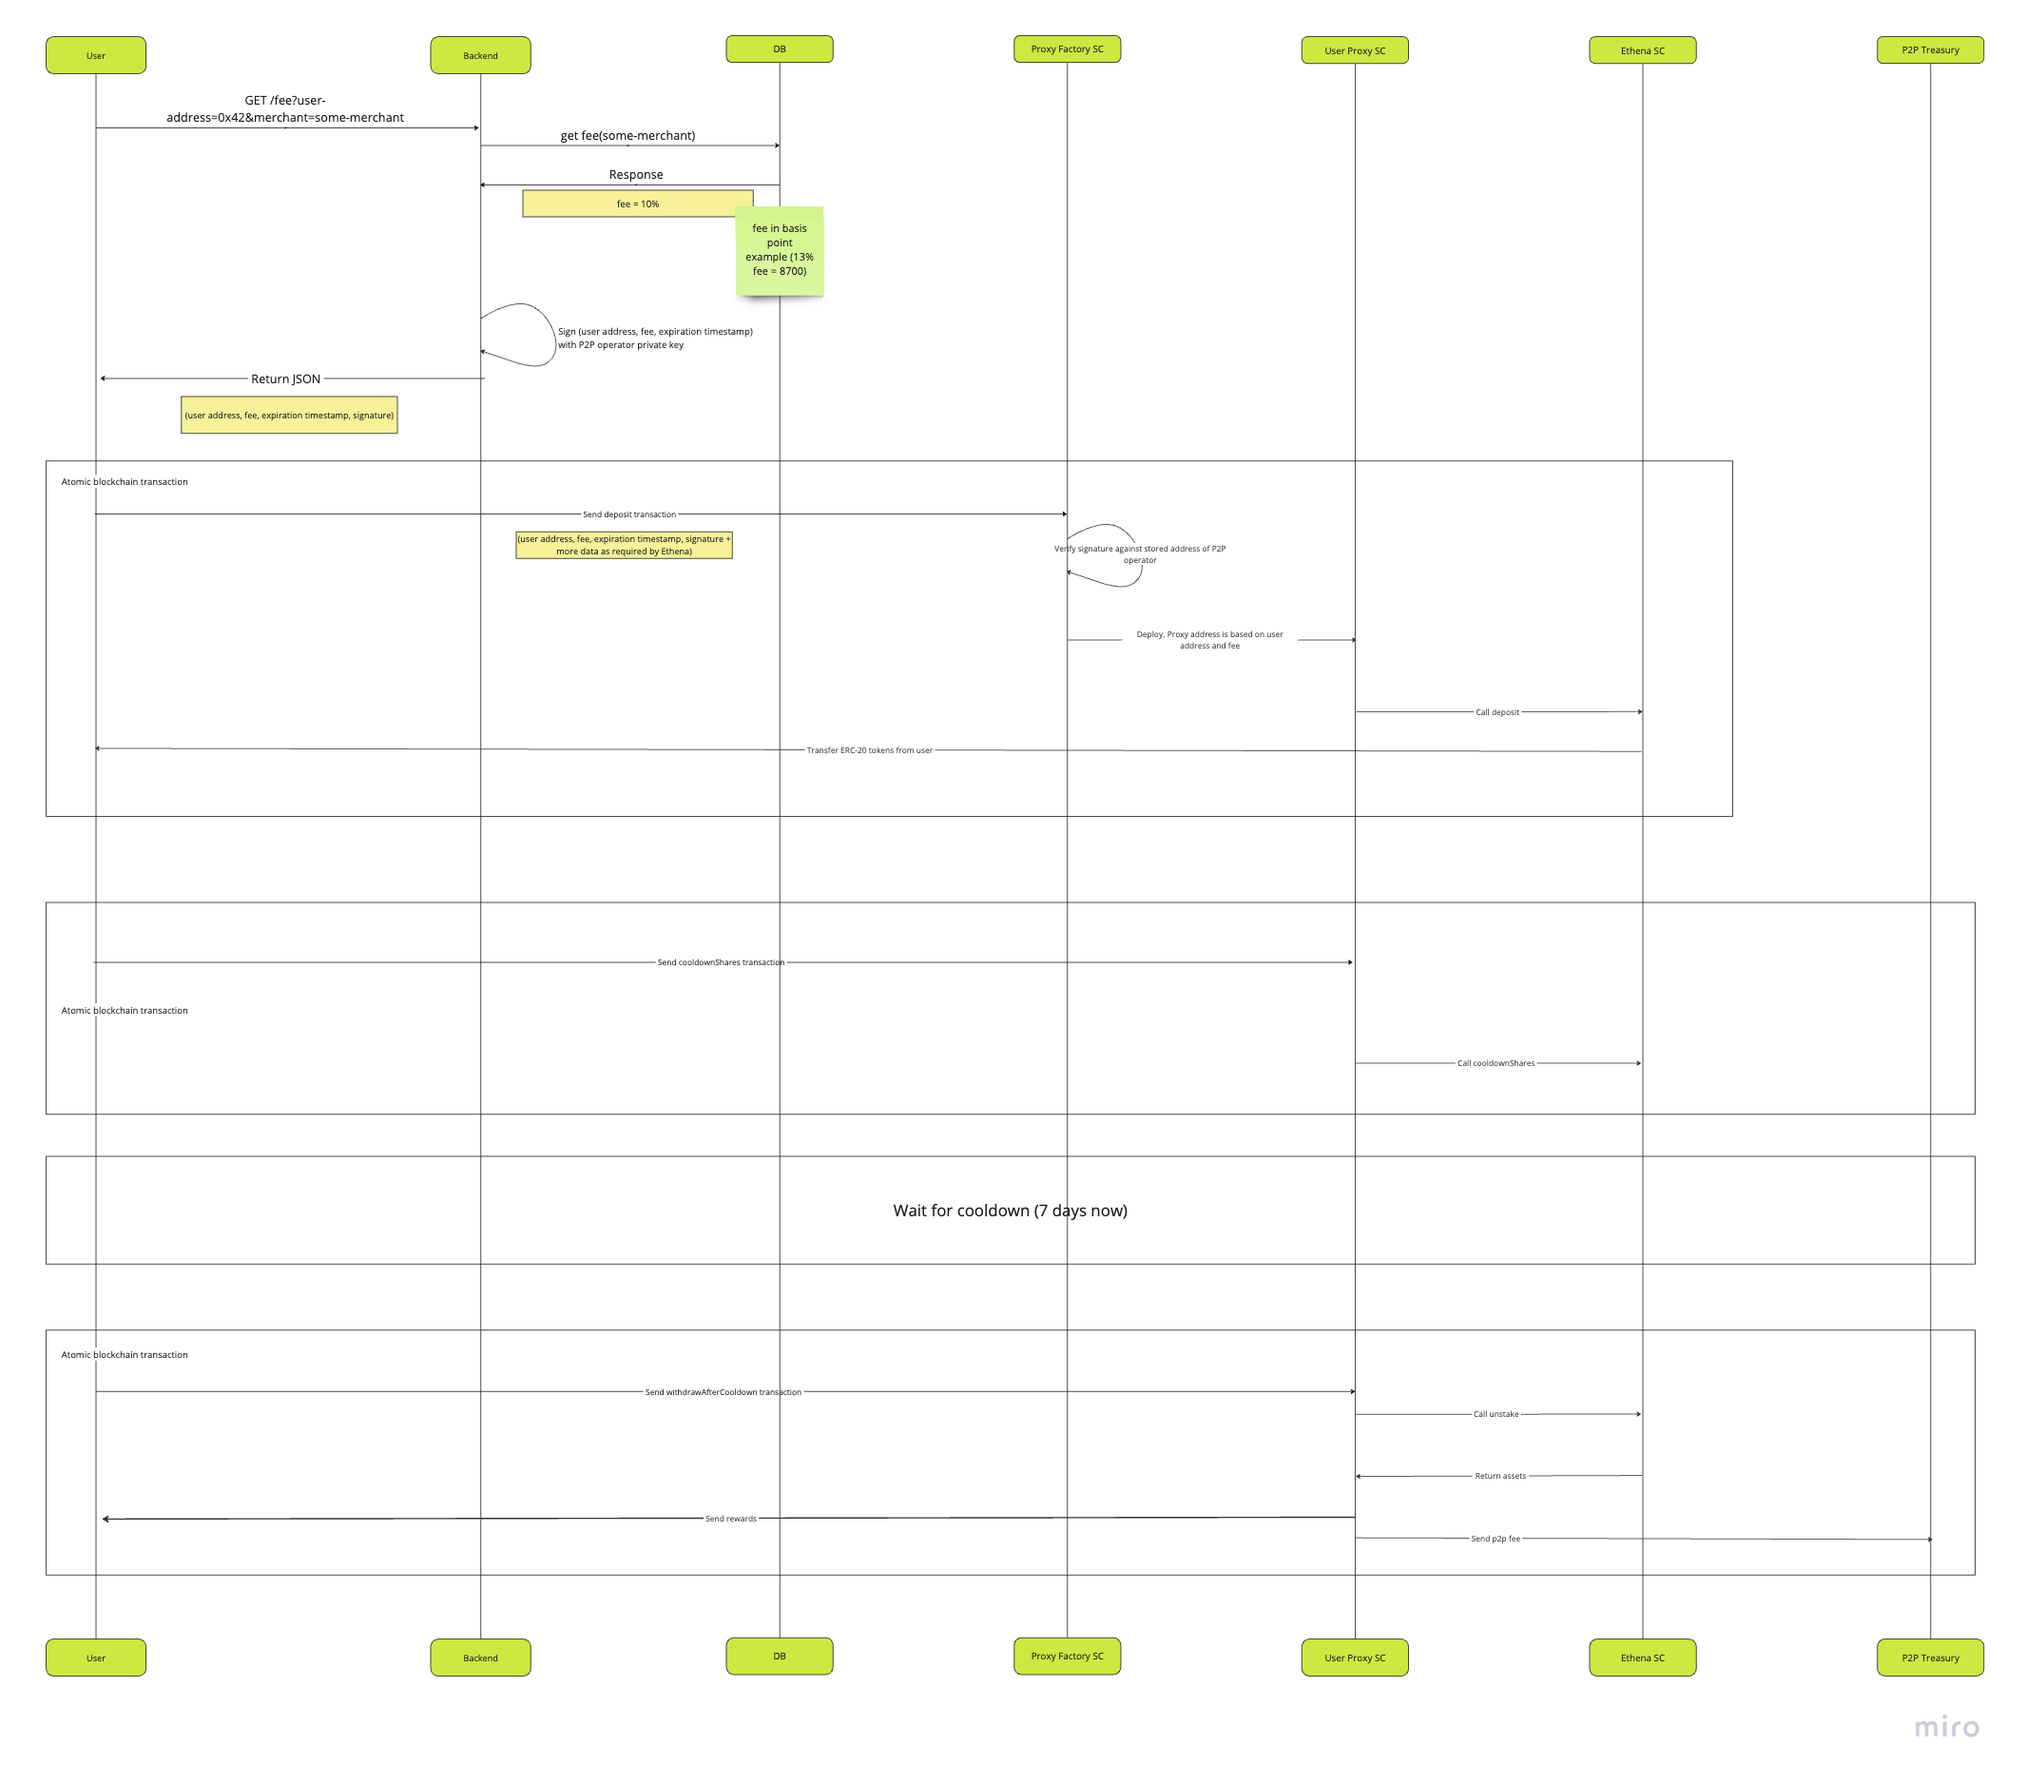
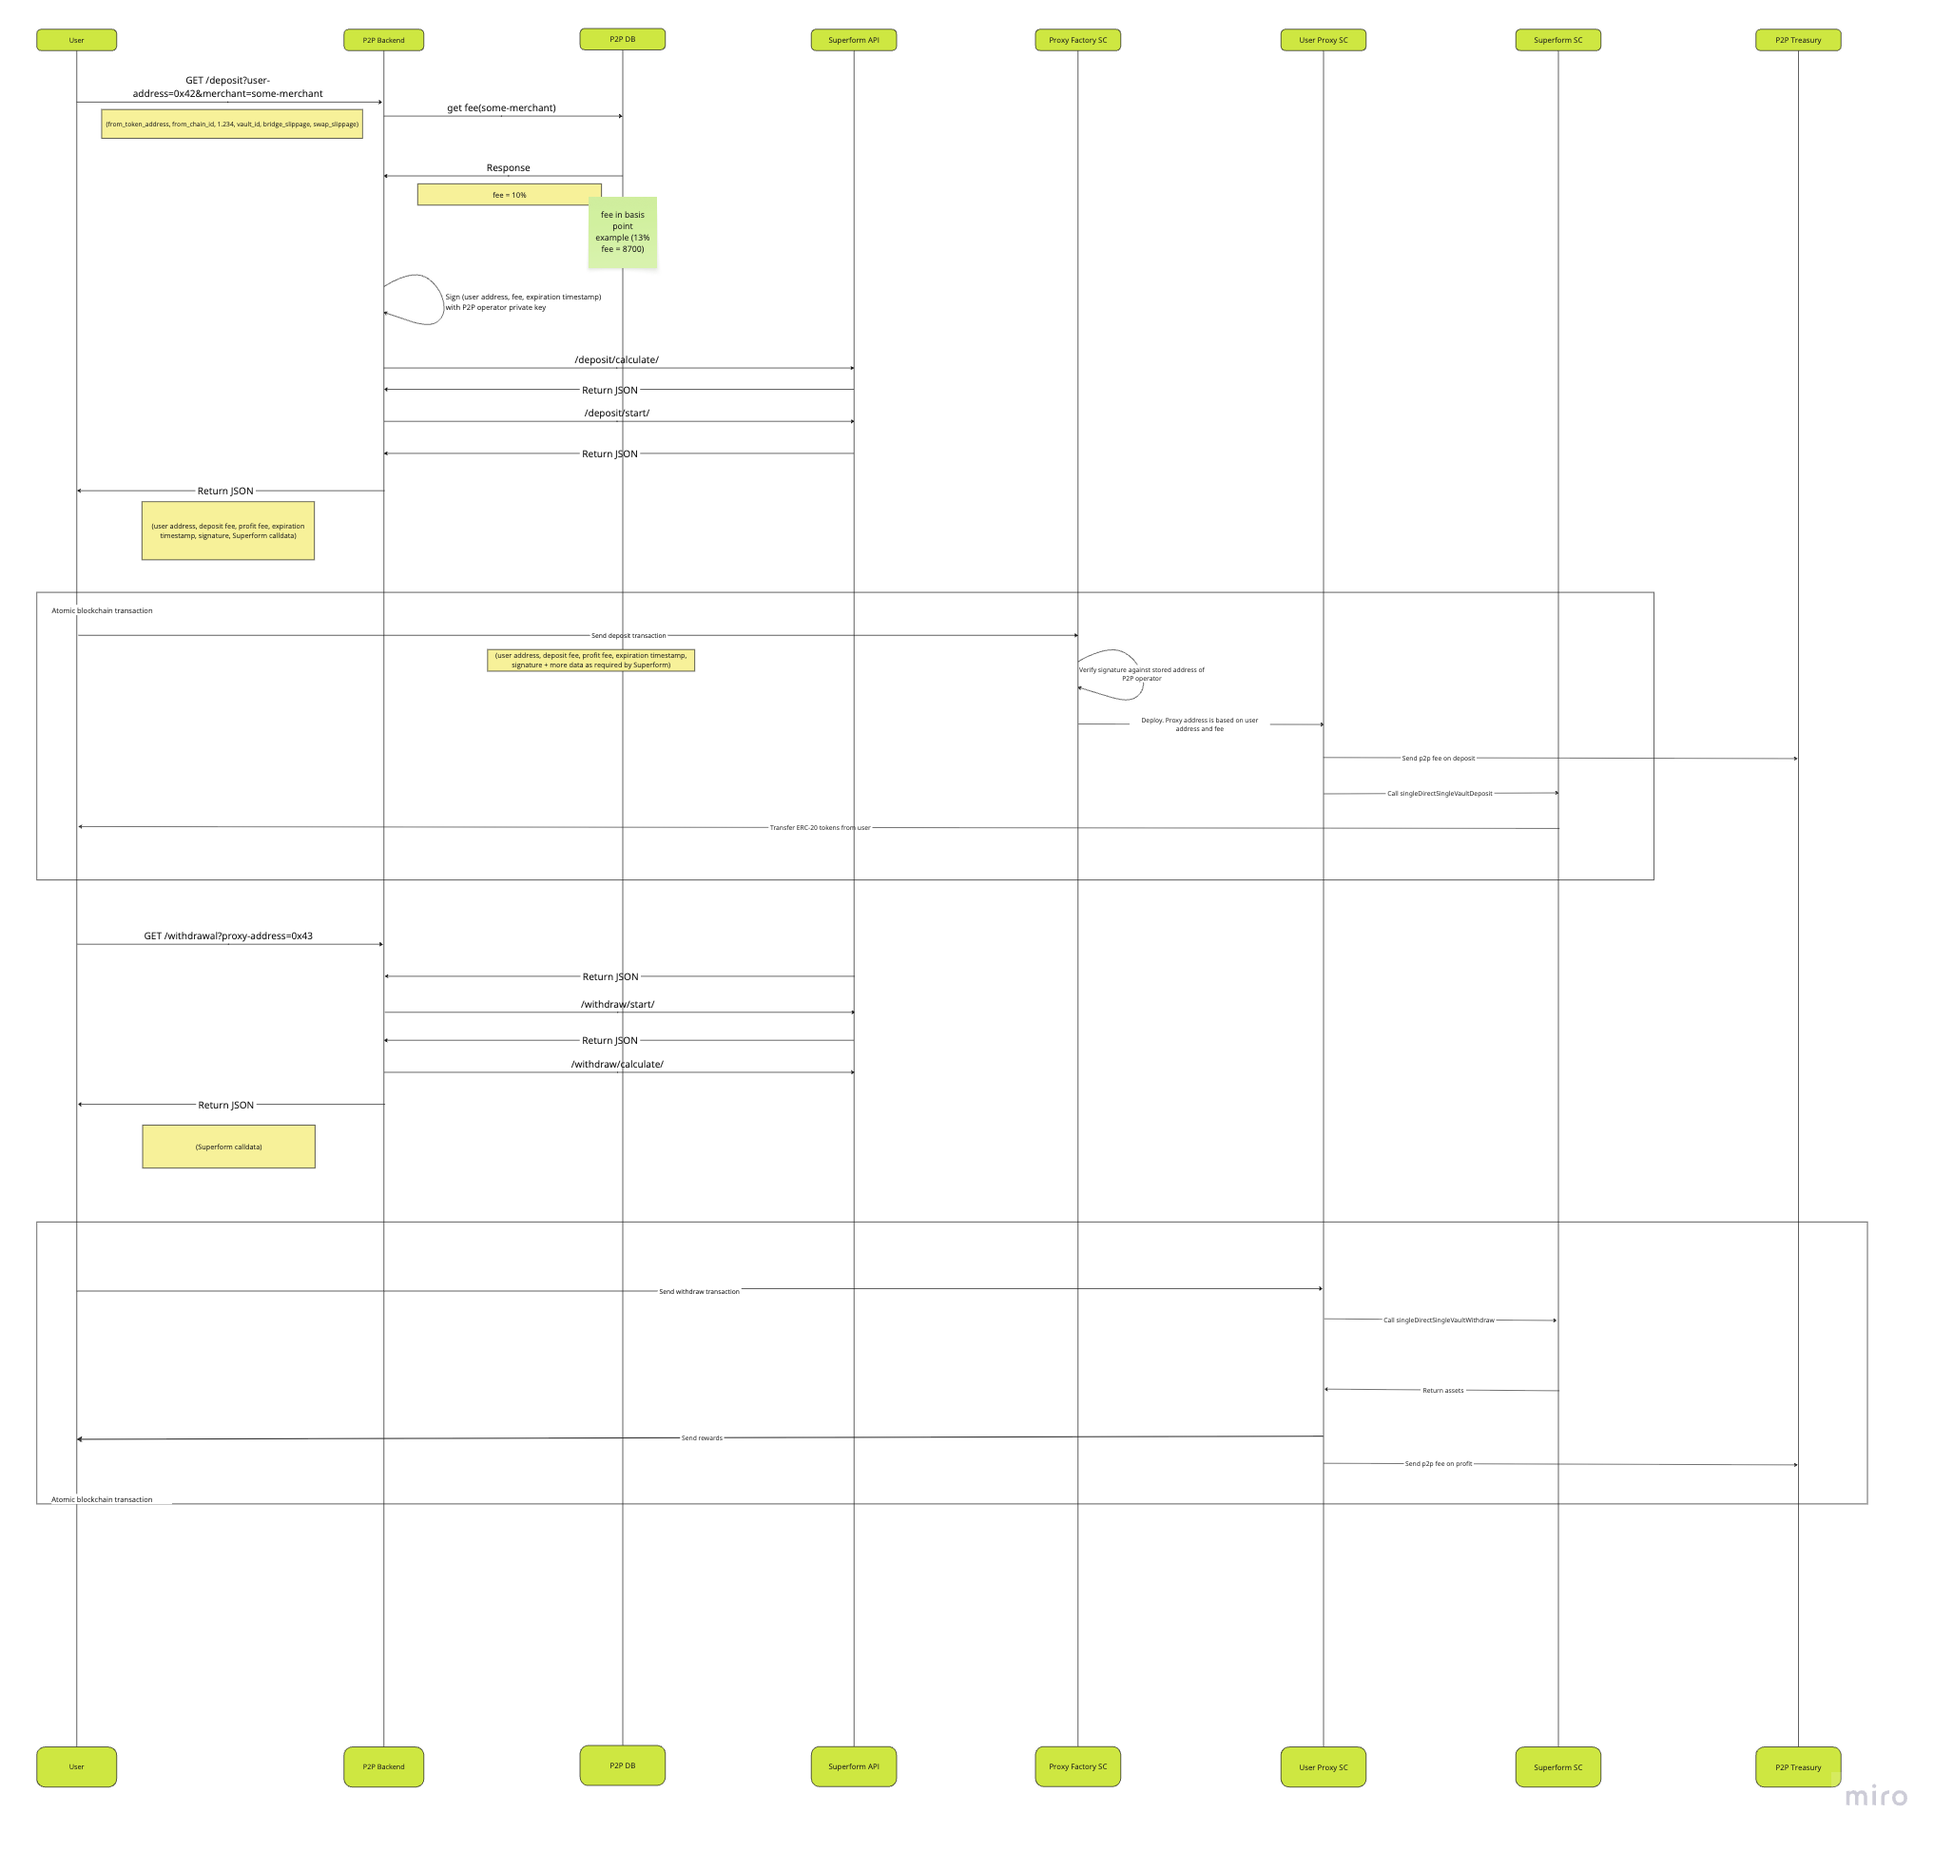
update README.md

diff --git a/README.md b/README.md
@@ -1,7 +1,7 @@
 ## p2p-yield-proxy
 
 Contracts for depositing and withdrawing ERC-20 tokens from yield protocols.
-The current implementation is only compatible with [Ethena](https://ethena.fi/) protocol. 
+The current implementation is only compatible with [Superform](https://www.superform.xyz/) protocol. 
 
 ## Running tests
 
@@ -20,23 +20,23 @@ forge script script/DeployBase.s.sol:Deploy --rpc-url $RPC_URL --private-key $PR
 
 This script will:
 
-- deploy and verify on Etherscan the **P2pEthenaProxyFactory** and **P2pEthenaProxy** contracts
-- set the **P2pTreasury** address permanently in the P2pEthenaProxyFactory
-- set the rules for Ethena specific deposit and withdrawal functions
+- deploy and verify on Etherscan the **P2pSuperformProxyFactory** and **P2pSuperformProxy** contracts
+- set the **P2pTreasury** address permanently in the P2pSuperformProxyFactory
+- set the rules for Superform specific deposit and withdrawal functions
 
 ## Basic use case
 
 ![Basic use case diagram](image-1.png)
 
-#### Ethena Deposit flow
+#### Superform Deposit flow
 
-Look at [function _doDeposit()](test/BaseMorphoUSDC.t.sol#L1000) for a reference implementation of the flow.
+Look at [function _doDeposit()](test/OptimismUSDT.t.sol#L430) for a reference implementation of the flow.
 
 1. Website User (called Client in contracts) calls Backend with its (User's) Ethereum address and some Merchant info.
 
 2. Backend uses Merchant info to determine the P2P fee (expressed as client basis points in the contracts).
 
-3. Backend calls P2pEthenaProxyFactory's `getHashForP2pSigner` function to get the hash for the P2pSigner.
+3. Backend calls P2pSuperformProxyFactory's `getHashForP2pSigner` function to get the hash for the P2pSigner.
 
 ```solidity
     /// @dev Gets the hash for the P2pSigner
@@ -53,94 +53,95 @@ Look at [function _doDeposit()](test/BaseMorphoUSDC.t.sol#L1000) for a reference
 
 4. Backend signs the hash with the P2pSigner's private key using `eth_sign`. Signing is necessary to authenticate the client basis points in the contracts.
 
-5. Backend returns JSON to the User with (client address, client basis points, signature deadline, and the signature).
+5. Backend calls Superform API to generate Superform deposit calldata.
 
-6. Client-side JS code prepares all the necessary data for the Morpho deposit function. Since the deposited tokens will first go from the client to the client's P2pEthenaProxy instance and then from the P2pEthenaProxy instance into the Ethena protocol, both of these transfers are approved by the client via Permit2. The client's P2pEthenaProxy instance address is fetched from the P2pEthenaProxyFactory contract's `predictP2pEthenaProxyAddress` function:
+6. Backend returns JSON to the User with (client address, client basis points, signature deadline, and the signature).
+
+7. Client-side JS code prepares all the necessary data for the Morpho deposit function. Since the deposited tokens will first go from the client to the client's P2pSuperformProxy instance and then from the P2pSuperformProxy instance into the Superform protocol, both of these transfers are approved by the client via Permit2. The client's P2pSuperformProxy instance address is fetched from the P2pSuperformProxyFactory contract's `predictP2pYieldProxyAddress` function:
 
 ```solidity
-    /// @dev Computes the address of a P2pEthenaProxy created by `_createP2pEthenaProxy` function
-    /// @dev P2pEthenaProxy instances are guaranteed to have the same address if _feeDistributorInstance is the same
+    /// @dev Computes the address of a P2pYieldProxy created by `_getOrCreateP2pYieldProxy` function
+    /// @dev P2pYieldProxy instances are guaranteed to have the same address if _feeDistributorInstance is the same
     /// @param _client The address of client
-    /// @return address The address of the P2pEthenaProxy instance
-    function predictP2pEthenaProxyAddress(
+    /// @param _clientBasisPointsOfDeposit The client basis points (share) of deposit
+    /// @param _clientBasisPointsOfProfit The client basis points (share) of profit
+    /// @return address The address of the P2pYieldProxy instance
+    function predictP2pYieldProxyAddress(
         address _client,
-        uint48 _clientBasisPoints
+        uint48 _clientBasisPointsOfDeposit,
+        uint48 _clientBasisPointsOfProfit
     ) external view returns (address);
 ```
 
-7. Client-side JS code checks if User has already approved the required amount of the deposited token for Permit2. If not, it prompts the User to call the `approve` function of the deposited token contract with the uint256 MAX value and Permit2 contract as the spender.
+8. Client-side JS code checks if User has already approved the required amount of the deposited token for Permit2. If not, it prompts the User to call the `approve` function of the deposited token contract with the uint256 MAX value and Permit2 contract as the spender.
 
-8. Client-side JS code prompts the User to do `eth_signTypedData_v4` to sign `PermitSingle` from the User's wallet into the P2pEthenaProxy instance
+9. Client-side JS code prompts the User to do `eth_signTypedData_v4` to sign `PermitSingle` from the User's wallet into the P2pSuperformProxy instance
 
-9. Client-side JS code prompts the User to call the `deposit` function of the P2pEthenaProxyFactory contract:
+10. Client-side JS code prompts the User to call the `deposit` function of the P2pSuperformProxyFactory contract:
 
 ```solidity
     /// @dev Deposits the yield protocol
-    /// @param _permitSingleForP2pEthenaProxy The permit single for P2pEthenaProxy
-    /// @param _permit2SignatureForP2pEthenaProxy The permit2 signature for P2pEthenaProxy
-    /// @param _clientBasisPoints The client basis points
+    /// @param _permitSingleForP2pYieldProxy The permit single for P2pYieldProxy
+    /// @param _permit2SignatureForP2pYieldProxy The permit2 signature for P2pYieldProxy
+    /// @param _yieldProtocolCalldata Yield protocol calldata
+    /// @param _clientBasisPointsOfDeposit The client basis points (share) of deposit
+    /// @param _clientBasisPointsOfProfit The client basis points (share) of profit
     /// @param _p2pSignerSigDeadline The P2pSigner signature deadline
     /// @param _p2pSignerSignature The P2pSigner signature
-    /// @return P2pEthenaProxyAddress The client's P2pEthenaProxy instance address
+    /// @return p2pYieldProxyAddress The client's P2pYieldProxy instance address
     function deposit(
-        IAllowanceTransfer.PermitSingle memory _permitSingleForP2pEthenaProxy,
-        bytes calldata _permit2SignatureForP2pEthenaProxy,
-
-        uint48 _clientBasisPoints,
+        IAllowanceTransfer.PermitSingle memory _permitSingleForP2pYieldProxy,
+        bytes calldata _permit2SignatureForP2pYieldProxy,
+        bytes calldata _yieldProtocolCalldata,
+        uint48 _clientBasisPointsOfDeposit,
+        uint48 _clientBasisPointsOfProfit,
         uint256 _p2pSignerSigDeadline,
         bytes calldata _p2pSignerSignature
     )
     external
-    returns (address P2pEthenaProxyAddress);
+    payable
+    returns (address p2pYieldProxyAddress);
 ```
 
-#### Ethena Withdrawal flow
+#### Superform Withdrawal flow
 
-Look at [function _doWithdraw()](test/BaseMorphoUSDC.t.sol#L1024) for a reference implementation of the flow.
+Look at [function _doWithdraw()](test/OptimismUSDT.t.sol#L486) for a reference implementation of the flow.
 
-1. Client-side JS code prepares all the necessary data for the Ethena `cooldownShares` function.
+1. Website User calls P2P.org's backend for Superform withdrawal calldata.
 
-2. Client-side JS code prompts the User to call the `cooldownShares` function of the client's instance of the P2pEthenaProxy contract:
+2. P2P.org's backend calls Superform API for Superform withdrawal calldata.
 
-```solidity
-    /// @notice redeem shares into assets and starts a cooldown to claim the converted underlying asset
-    /// @param _shares shares to redeem
-    function cooldownShares(uint256 _shares) external returns (uint256 assets);
-```
+3. P2P.org's backend returns Superform withdrawal calldata to the User.
 
-3. Wait for the [cooldownDuration](https://etherscan.io/address/0x9d39a5de30e57443bff2a8307a4256c8797a3497#readContract#F9). (Currently, 7 days).
+4. Client-side JS code prepares all the necessary data for the Superform `singleDirectSingleVaultWithdraw` function.
 
-2. Client-side JS code prompts the User to call the `withdrawAfterCooldown` function of the client's instance of the P2pEthenaProxy contract:
+5. Client-side JS code prompts the User to call the `withdraw` function of the client's instance of the P2pSuperformProxy contract:
 
 ```solidity
-    /// @notice withdraw assets after cooldown has elapsed
-    function withdrawAfterCooldown() external;
-```
-
-The P2pEthenaProxy contract will redeem the tokens from Ethena and send them to User. The amount on top of the deposited amount is split between the User and the P2pTreasury according to the client basis points.
-
-
-## Calling any function on any contracts via P2pEthenaProxy
-
-It's possible for the User to call any function on any contracts via P2pEthenaProxy. This can be useful if it appears that functions of yield protocols beyond simple deposit and withdrawal are needed. Also, it can be useful for claiming any airdrops unknown in advance.
-
-Before the User can use this feature, the P2P operator needs to set the rules for the function call via the `setCalldataRules` function of the P2pEthenaProxyFactory contract:
-
-```solidity
-    /// @dev Sets the calldata rules
-    /// @param _contract The contract address
-    /// @param _selector The selector
-    /// @param _rules The rules
-    function setCalldataRules(
-        address _contract,
-        bytes4 _selector,
-        P2pStructs.Rule[] calldata _rules
+    /// @notice Withdraw assets from Superform protocol
+    /// @param _superformCalldata calldata for withdraw function of Superform protocol
+    function withdraw(
+        bytes calldata _superformCalldata
     ) external;
+```
+
+The P2pSuperformProxy contract will redeem the tokens from Superform and send them to User. The amount on top of the deposited amount is split between the User and the P2pTreasury according to the client basis points.
+
+
+## Calling any function on any contracts via P2pSuperformProxy
+
+It's possible for the User to call any function on any contracts via P2pSuperformProxy. This can be useful if it appears that functions of yield protocols beyond simple deposit and withdrawal are needed. Also, it can be useful for claiming any airdrops unknown in advance.
+
+Before the User can use this feature, the P2P operator needs to deploy a new contract implementing the `IAllowedCalldataChecker` interface and then the function `upgrade` function on ProxyAdmin:
+
+```solidity
+    MockAllowedCalldataChecker newImplementation = new MockAllowedCalldataChecker();
+    admin.upgrade(ITransparentUpgradeableProxy(address(tup)), address(newImplementation));
 ```
 
 The rules should be as strict as possible to prevent any undesired function calls.
 
-Once the rules are set, the User can call the permitted function on the permitted contract with the permitted calldata via P2pEthenaProxy's `callAnyFunction` function:
+Once the rules are set, the User can call the permitted function on the permitted contract with the permitted calldata via P2pSuperformProxy's `callAnyFunction` function:
 
 ```solidity
     /// @notice Calls an arbitrary allowed function
